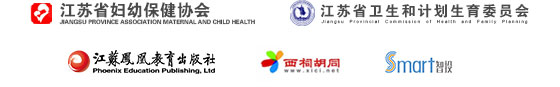
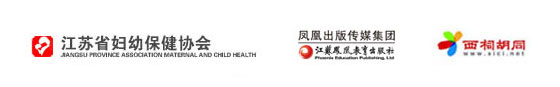
patch1

diff --git a/www.fhxckids.com/css/qingzi.css b/www.fhxckids.com/css/qingzi.css
@@ -148,8 +148,8 @@ a:hover p{text-decoration:underline;}
 .forum ul li{float:left;width:305px;padding-left:23px;background:url('../img/i_form.jpg') left center no-repeat;}
 .forum ul li.li1{margin-right:62px;}
 .forum ul li p{border-bottom:1px dashed #e6e6e6;line-height:40px;}
-.club{padding:24px 0 0 16px;}
-.club li{float:left;margin-right:30px;}
+.club{padding:24px 0 0 0;}
+.club li{float:left;margin-right:35px;}
 .club img{width:168px;height:230px;}
 
 .qh_mod{margin-bottom:38px;padding-top:40px;}
@@ -179,7 +179,7 @@ a:hover p{text-decoration:underline;}
 
 .hand{padding-left:21px;position:relative;}
 .hand p{width:254px;left:57px;}
-
+.hand .s_bt{top:0;left:11px;background:#F9984D;}
 
 .mothers ul{margin-bottom:43px;}
 .mothers ul li{float:left;margin-right:40px;position:relative;}
@@ -203,10 +203,15 @@ a:hover p{text-decoration:underline;}
 .show ul li p{background:url('../img/p_banner_b1.png') center no-repeat;height:50px;line-height:50px;position:absolute;width:100%;left:0;bottom:0;text-align:center;}
 .show ul li a{color:#fff;text-decoration:underline;}
 
-.cooperate_tit{text-align:center;font-size:30px;line-height:30px;margin-bottom:27px;}
-.cooperate{padding-bottom:46px;margin-bottom:47px;border-bottom:2px solid #eeeeee;}
-.cooperate div{padding-left:18px;}
-.cooperate img{float:left;margin-right:55px;}
+.cooperate_tit{text-align:center;font-size:30px;line-height:30px;margin-bottom:30px;}
+.cooperate{padding-bottom:45px;margin-bottom:47px;border-bottom:2px solid #eeeeee;}
+.cooperate>div{width:798px;margin:0 auto;}
+.cooperate>div>div{height:36px;}
+.cooperate>div>div.div1{float:left;border-right:1px solid #eee;width:285px;text-align:left;}
+.cooperate>div>div.div2{float:left;border-right:1px solid #eee;width:33.3%;text-align:center;}
+.cooperate>div>div.div3{float:right;text-align:right;}
+.cooperate img{display:inline-block;}
+
 
 .footer{line-height:28px;font-size:12px;color:#aaaaaa;text-align:center;padding-bottom:60px;}
 .footer span{padding:0 10px;}
@@ -218,3 +223,8 @@ a:hover p{text-decoration:underline;}
 .side img{cursor:pointer;}
 .side em{position:absolute;left:-190px;top:0;display:none;}
 .side i,.side span{display:block;border:1px solid #ccc;}
+
+
+
+/*.s_tit1 h6 span,.s_tit2 h6 span,.s_tit3 h6 span,.s_tit4 h6 span,.s_tit5 h6 span{letter-spacing: 2px;}*/
+.s_tit6 h6 span font{font-family:Arial;}

diff --git a/www.fhxckids.com/pc.php b/www.fhxckids.com/pc.php
@@ -30,13 +30,13 @@
 			<img src="img/p_logo.jpg">
 		</a>
 		<div class="right header_r">
-			<a class="a1" href="#s_tit1" target="_self">0-3岁</a>
-			<a class="a2" href="#s_tit2" target="_self">3-6岁</a>	
-			<a class="a3" href="#s_tit3" target="_self">发现</a>	
-			<a class="a4" href="#s_tit4" target="_self">阅读</a>	
-			<a class="a5" href="#s_tit5" target="_self">辣妈</a>	
-			<a class="a6" href="#s_tit6" target="_self">SHOW</a>
-			<a class="a7" href="http://www.xici.net/b1543829/" target="_self">官方版</a>		
+			<a class="a1" href="#s_tit1" onclick="ga('send', 'event', 'link', 'click', '导航-0-3岁');" target="_self">0-3岁</a>
+			<a class="a2" href="#s_tit2" onclick="ga('send', 'event', 'link', 'click', '导航-3-6岁');" target="_self">3-6岁</a>	
+			<a class="a3" href="#s_tit3" onclick="ga('send', 'event', 'link', 'click', '导航-发现');" target="_self">发现</a>	
+			<a class="a4" href="#s_tit4" onclick="ga('send', 'event', 'link', 'click', '导航-阅读');" target="_self">阅读</a>	
+			<a class="a5" href="#s_tit5" onclick="ga('send', 'event', 'link', 'click', '导航-辣妈');" target="_self">辣妈</a>	
+			<a class="a6" href="#s_tit6" onclick="ga('send', 'event', 'link', 'click', '导航-SHOW');" target="_self">SHOW</a>
+			<a class="a7" href="http://www.xici.net/b1543829/" onclick="ga('send', 'event', 'link', 'click', '导航-官方版');">官方版</a>		
 		</div>	
 	</div>
 	<div class="subject main clearfix">
@@ -53,18 +53,6 @@
 					<div class="area clearfix" id="baby_posid3">
 						<ul>
 							<?php echo pcRender($arrData, '_3'); ?>
-							<!--li>
-								<span>南京</span>
-								<a href="">小学校长强迫学生用打坐代替</a>
-							</li>
-							<li>
-								<span class="span2">苏州</span>
-								<a href="">家长为求孩子被老师关注群里</a>
-							</li>
-							<li>
-								<span>连云港</span>
-								<a href="">小学校长强迫学生用打坐代替</a>
-							</li-->
 						</ul>
 					</div>	
 				</div>
@@ -180,6 +168,7 @@
 			<h3 class="sid_tit sid_tit5">大手拉小手</h3>
 			<div class="hand" id="baby_posid15">
 				<?php echo pcRender($arrData, '_15'); ?>
+				<h6 class="s_bt">天伦之乐<i></i></h6>
 			</div>	
 		</div>		
 	</div>
@@ -200,21 +189,26 @@
 		</div>
 	</div>
 	<div id="s_tit6" class="s_tit s_tit6 clearfix main" style="*padding-top:20px;">
-		<h6><span>宝贝SHOW</span></h6>
+		<h6><span>宝贝<font>SHOW</font></span></h6>
 	</div>
 	<div class="show main" id="baby_posid19">
 		<?php echo pcRender($arrData, '_19'); ?>
 	</div>
-	<!--h3 class="cooperate_tit">合作机构</h3>
-	<div class="cooperate main clearflix">
+	<h3 class="cooperate_tit main">合作机构</h3>
+	<div class="cooperate main clearfix">	
+		
 		<div>
-		 	<img src="img/p_logo_f1.jpg">
-		 	<img src="img/p_logo_f2.jpg">
-		 	<img src="img/p_logo_f3.jpg">
-		 	<img src="img/p_logo_f4.jpg">
-		 	<img class="m_r1" src="img/p_logo_f5.jpg">
-	 	</div>
-	</div-->
+			<div class="div1">		
+		 	<img src="img/p_logo_f1.jpg">	
+		 	</div>	
+		 	<div class="div2">	 	
+		 	<img src="img/p_logo_f6.jpg">
+		 	</div>
+		 	<div class="div3">	
+		 	<img src="img/p_logo_f4.jpg">	
+		 	</div>
+		</div>
+	</div>
 	<div class="footer">
 		<p class="nav">
 			<span><a href="#s_tit1" target="_self">0-3岁</a></span>|	

diff --git a/www.fhxckids.com/index.php b/www.fhxckids.com/index.php
@@ -109,10 +109,12 @@
 				}
 			} elseif ($modId == '_9') {
 				foreach ($arrMod as $k => $v) {
-					if ($k != '_3') {
-						$ret[] = '<li><a onclick="ga(\'send\', \'event\', \'link\', \'click\', \'成长不烦恼-No.'.substr($k, 1).'\');" href="'.getUrl($v).'" babyinfo="'.getInfo($v, $from).'"><img src="'.getImg($v).'" width="235" height="235"><p>'.getTitle($v, 12).'</p></a><h6 class="s_bt5 s_bt">'.getTag($v, 4).'<i></i></h6></li>';
-					} else {
+					if ($k == '_1') {
+						$ret[] = '<li><a onclick="ga(\'send\', \'event\', \'link\', \'click\', \'成长不烦恼-No.'.substr($k, 1).'\');" href="'.getUrl($v).'" babyinfo="'.getInfo($v, $from).'"><img src="'.getImg($v).'" width="235" height="235"><p>'.getTitle($v, 12).'</p></a><h6 class="s_bt4 s_bt">'.getTag($v, 4).'<i></i></h6></li>';
+					} elseif ($k == '_2') {
 						$ret[] = '<li class="m_r1"><a onclick="ga(\'send\', \'event\', \'link\', \'click\', \'成长不烦恼-No.'.substr($k, 1).'\');" href="'.getUrl($v).'" babyinfo="'.getInfo($v, $from).'"><img src="'.getImg($v).'" width="235" height="235"><p>'.getTitle($v, 12).'</p></a><h6 class="s_bt5 s_bt">'.getTag($v, 4).'<i></i></h6></li>';
+					} else {
+						$ret[] = '<li class="m_r1"><a onclick="ga(\'send\', \'event\', \'link\', \'click\', \'成长不烦恼-No.'.substr($k, 1).'\');" href="'.getUrl($v).'" babyinfo="'.getInfo($v, $from).'"><img src="'.getImg($v).'" width="235" height="235"><p>'.getTitle($v, 12).'</p></a><h6 class="s_bt6 s_bt">'.getTag($v, 4).'<i></i></h6></li>';
 					}
 				}
 			} elseif ($modId == '_10') {
